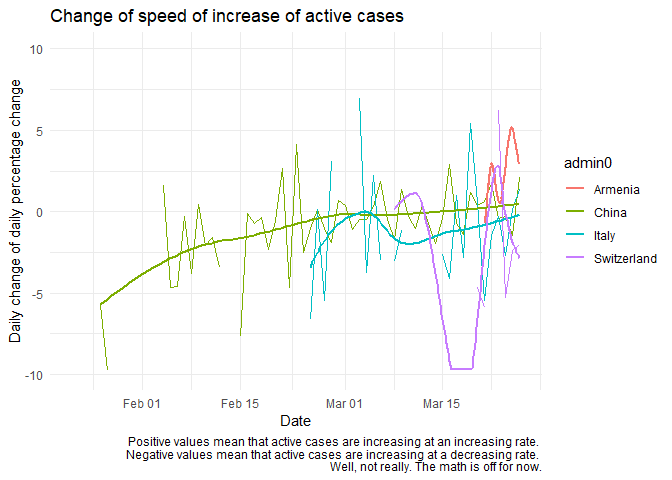
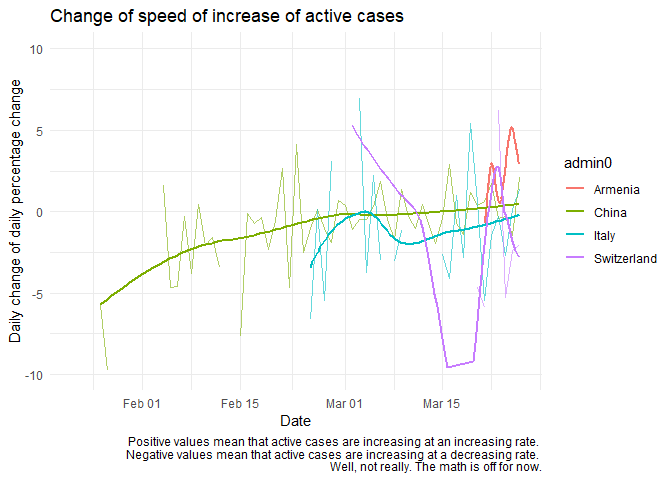
cleanup

diff --git a/README.md b/README.md
@@ -1,12 +1,24 @@
 some covid-19 charts
 ================
 
-## 
+## Parameters
 
-switched data to the new CSSE format, something’s messed up now. Loads
-of NAs.
+All data points where confirmed cases are below the `threshold` are
+discarded, which makes for cleaner charts. This is because the number of
+cases tends to exhibit nice exponential behaviour from 10 or so cases
+upwards. `chart_list` defines which countries to chart. Duh.
 
 ``` r
+threshold = 10
+chart_list = c("Switzerland", "Italy", "China", "Armenia")
+```
+
+## Load data
+
+``` r
+library(tidyverse)
+
+
 Confirmed <- read_csv("https://raw.githubusercontent.com/CSSEGISandData/COVID-19/master/csse_covid_19_data/csse_covid_19_time_series/time_series_covid19_confirmed_global.csv")
 Deaths <- read_csv("https://raw.githubusercontent.com/CSSEGISandData/COVID-19/master/csse_covid_19_data/csse_covid_19_time_series/time_series_covid19_deaths_global.csv")
 Recovered <- read_csv("https://raw.githubusercontent.com/CSSEGISandData/COVID-19/master/csse_covid_19_data/csse_covid_19_time_series/time_series_covid19_recovered_global.csv")
@@ -48,44 +60,34 @@ deaths_tidy <- tidy_CSSE_admin0(tidy_CSSE(Deaths, value_col = 'Deaths'), value_c
 recovered_tidy <- tidy_CSSE_admin0(tidy_CSSE(Recovered, value_col = 'Recovered'), value_col = 'Recovered')
 ```
 
-## parameters
-
-threshold serves for making cleaner charts. The number of cases tends to
-exhibit nice exponential behaviour from 10 cases upwards, setting it to
-20 with some extra safety margin.
-
-chart\_list defined which countries to chart. Duh.
+## Process
 
 ``` r
-threshold = 20
-chart_list = c("Switzerland", "Italy", "China", "Armenia")
-```
-
-``` r
-all_data_admin0 <- left_join(confirmed_tidy,deaths_tidy, by = c('unique_id' = 'unique_id'))%>%
-  left_join(recovered_tidy, by = c('unique_id' = 'unique_id'))%>%
-  # select(-contains("."))%>%
+  left_join(confirmed_tidy,deaths_tidy, by = c('unique_id' = 'unique_id')) %>%
+  left_join(recovered_tidy, by = c('unique_id' = 'unique_id')) %>%
   select(admin0 = admin0.x, Date=Date.x, Confirmed, Deaths, Recovered) %>%
   replace_na(list(Recovered = 0, Deaths = 0)) %>%
   group_by(admin0) %>%
   filter(Confirmed > threshold) %>%
-  # group_by(admin0) %>%
-  mutate(Active = (Confirmed - (Recovered + Deaths)),
+  mutate(Active = Confirmed - (Recovered + Deaths),
          Day = row_number(1:n()),
          Mortality = Deaths/Confirmed*100,
          `New cases daily percentage change` = (Confirmed/lag(Confirmed)-1)*100,
          `Active cases daily percentage change` = (Active/lag(Active)-1)*100,
          `Daily change of daily percentage change` = 
            `Active cases daily percentage change` - lag(`Active cases daily percentage change`)
-         ) 
-
-all_data_admin0 %>%
-  filter(admin0 %in% chart_list) %>%
-  ggplot() + geom_line() + theme_minimal() ->
-  covplot
+         ) ->
+  all_data_admin0
 ```
 
+## Chart
+
 ``` r
+all_data_admin0 %>%
+  filter(admin0 %in% chart_list) %>%
+  ggplot() + geom_line(alpha=.6) + theme_minimal() ->
+  covplot
+
 covplot + aes(x=Date, y=Active, colour=admin0) +
   scale_y_log10(labels = scales::comma) + 
   labs(title = "Active cases by date, log scale", colour = "Country") 
@@ -112,9 +114,9 @@ covplot +
 
     ## `geom_smooth()` using method = 'loess' and formula 'y ~ x'
 
-    ## Warning: Removed 14 rows containing non-finite values (stat_smooth).
+    ## Warning: Removed 15 rows containing non-finite values (stat_smooth).
 
-    ## Warning: Removed 7 rows containing missing values (geom_path).
+    ## Warning: Removed 6 rows containing missing values (geom_path).
 
     ## Warning: Removed 22 rows containing missing values (geom_smooth).
 
@@ -132,7 +134,7 @@ covplot +
 
     ## `geom_smooth()` using method = 'loess' and formula 'y ~ x'
 
-    ## Warning: Removed 49 rows containing non-finite values (stat_smooth).
+    ## Warning: Removed 51 rows containing non-finite values (stat_smooth).
 
     ## Warning in simpleLoess(y, x, w, span, degree = degree, parametric =
     ## parametric, : span too small. fewer data values than degrees of freedom.
@@ -149,9 +151,9 @@ covplot +
     ## Warning in simpleLoess(y, x, w, span, degree = degree, parametric =
     ## parametric, : There are other near singularities as well. 9.1506
 
-    ## Warning: Removed 20 rows containing missing values (geom_path).
+    ## Warning: Removed 17 rows containing missing values (geom_path).
 
-    ## Warning: Removed 12 rows containing missing values (geom_smooth).
+    ## Warning: Removed 11 rows containing missing values (geom_smooth).
 
 ![](readme_files/figure-gfm/unnamed-chunk-1-4.png)<!-- -->
 
@@ -161,8 +163,8 @@ covplot +
 
   - add country population, compute cases per capita
 
-  - compute and chart moving window weekly (3-day?) case increase
-    averages
+  - compute and chart moving window weekly (3-day?) averages, because
+    these charts are a mess
 
   - labels
     
